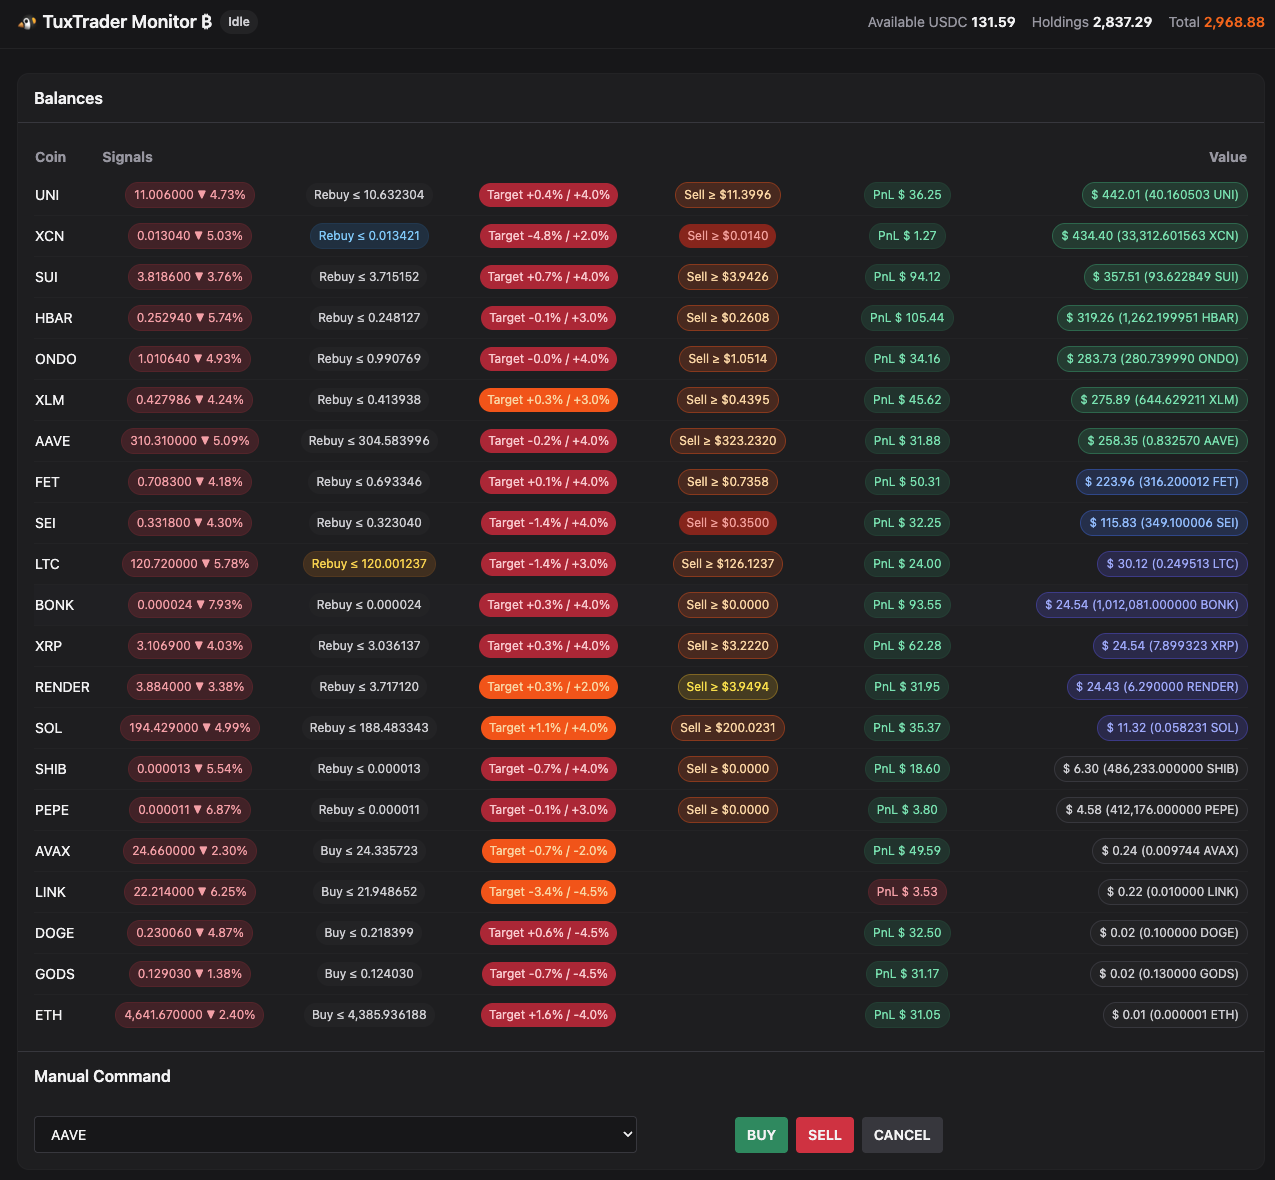
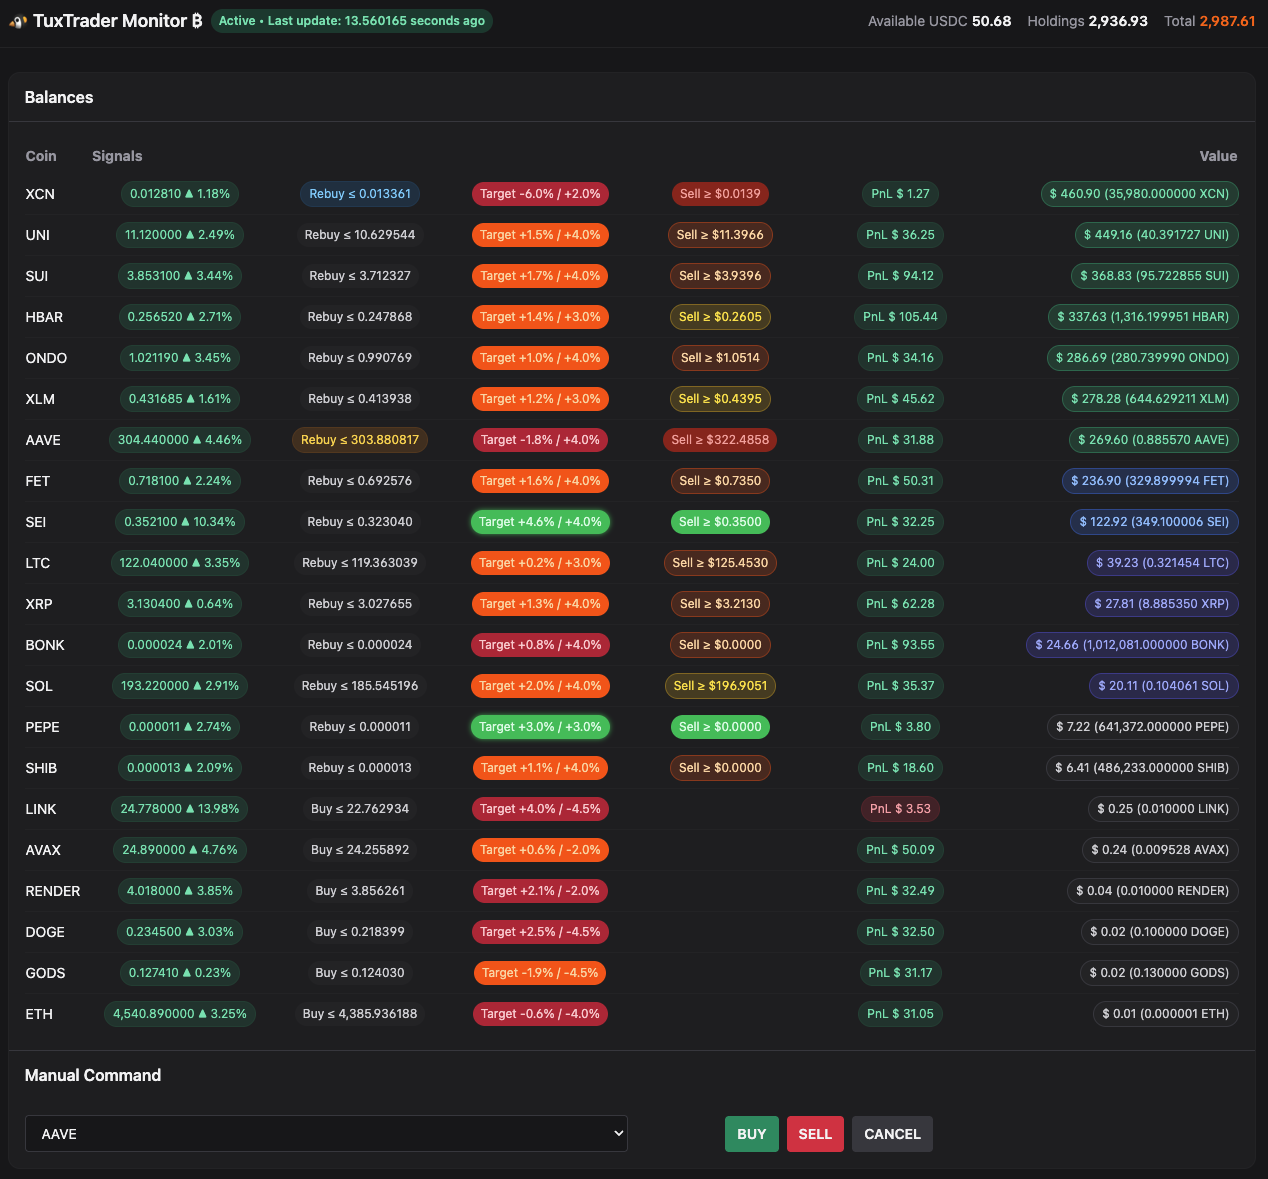
Update README.md and more up2date sample screenshot

diff --git a/README.md b/README.md
@@ -6,7 +6,9 @@ This project is a dashboard for monitoring via the TuxTrader trading bot, provid
 [![Docker Pulls](https://img.shields.io/docker/pulls/royen99/cryptobot-monitor?logo=docker)](https://hub.docker.com/r/royen99/cryptobot-monitor)
 [![CI/CD](https://github.com/royen99/cryptobot-monitor/actions/workflows/docker-publish.yml/badge.svg)](https://github.com/royen99/cryptobot-monitor/actions/workflows/docker-publish.yml)
 [![Stars](https://img.shields.io/github/stars/royen99/cryptobot-monitor?logo=github)](https://github.com/royen99/cryptobot-monitor)
+[![Multi-Arch Support](https://img.shields.io/badge/arch-linux%2Famd64%20%7C%20linux%2Farm64-blue?logo=docker)](https://hub.docker.com/r/royen99/cryptobot-monitor/tags)
 [![License: MIT](https://img.shields.io/badge/License-MIT-yellow.svg)](https://opensource.org/licenses/MIT)
+[![Donate ETH](https://img.shields.io/badge/donate-ETH-blue?logo=ethereum)](0xe9128E8cc47bCab918292E2a0aE0C25971bb61EA)
 
 ## Features
 ✅ Real-time trade updates \

diff --git a/CHANGES.md b/CHANGES.md
@@ -4,6 +4,15 @@ All notable changes to this project will be documented in this file.
 
 The format is based on [Keep a Changelog](https://keepachangelog.com/en/1.1.0/).
 
+## [17/08/2025]
+
+### Changed
+- Proper status indication showing last update of fetched prices.
+
+### Updated
+- Bumped python base image to 3.13
+- Updated python dependencies to latest versions.
+
 ## [15/08/2025]
 
 ### Added
